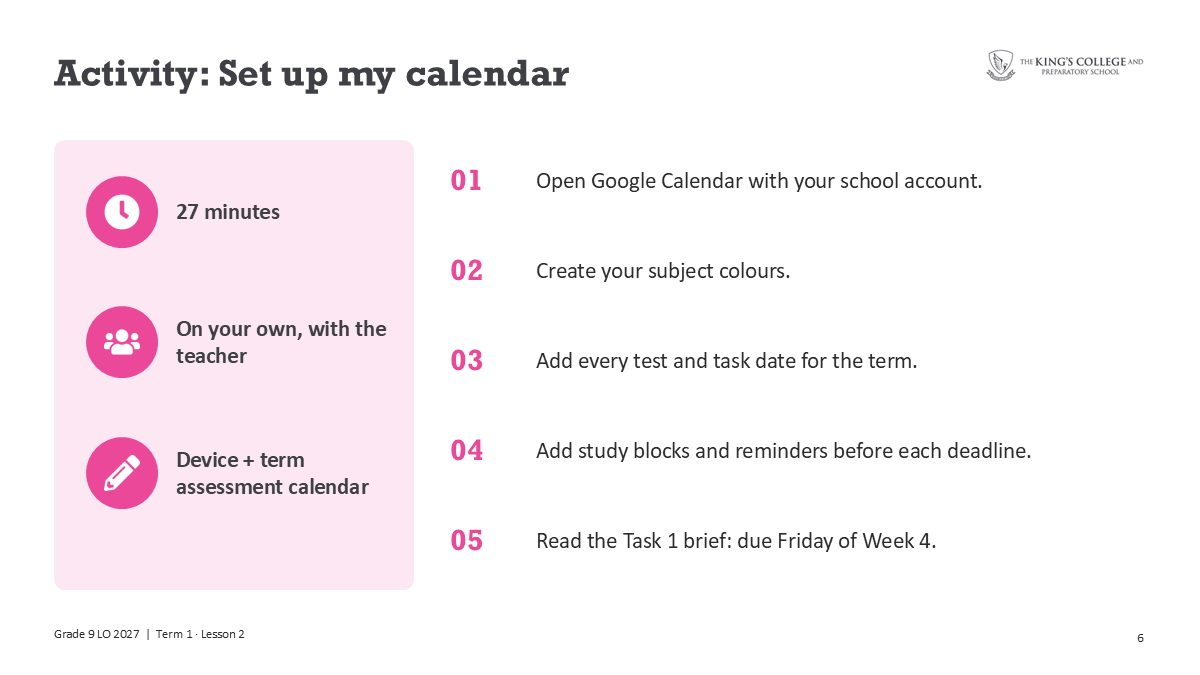
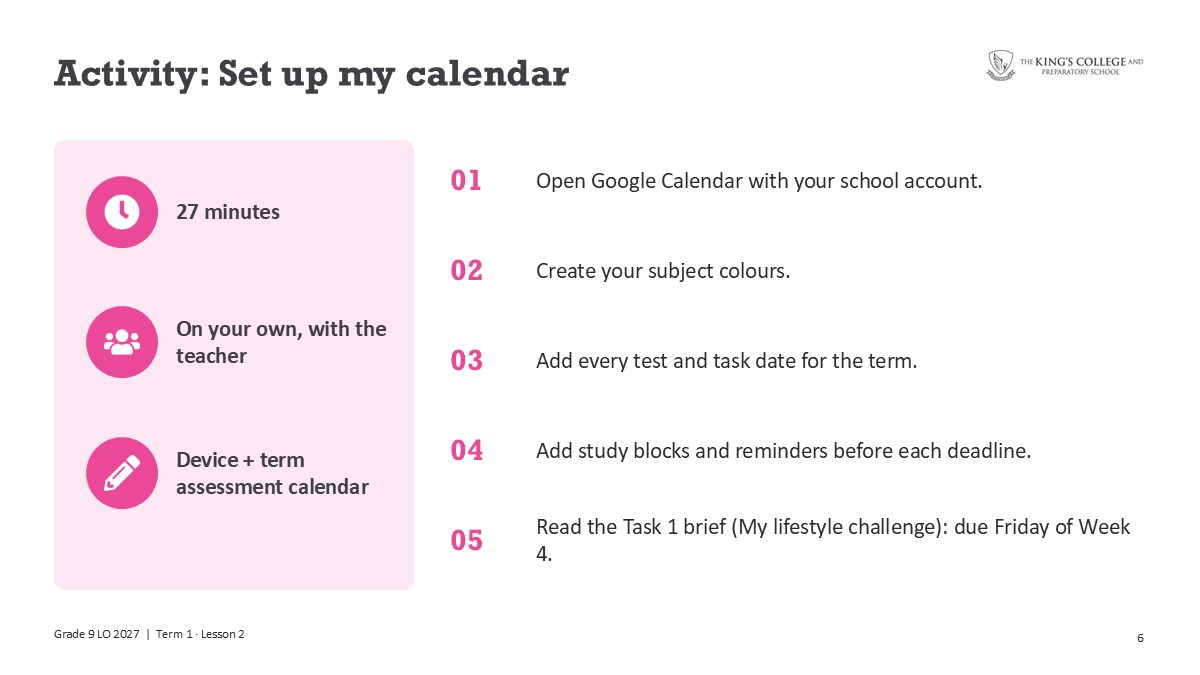
Grade 9 Task 1: My lifestyle challenge

Changed region(s): [[0.4317, 0.7467, 0.9558, 0.84]]

diff --git a/grade-9/lesson-9-02.html b/grade-9/lesson-9-02.html
@@ -58,7 +58,7 @@
 <div class="callout butter"><strong>Example</strong><p>Question: Analyse how taking accountability for deadlines can help a Grade 9 learner. (1 x 4) (4)<br>Answer: An accountable learner plans their own deadlines instead of blaming others ✓ which means they start tasks early and ask for help in time ✓ especially in busy weeks with tests and sport ✓ so they hand in better work, feel less stressed and earn their teachers&#x27; trust ✓.</p></div>
 <div class="callout peach"><strong>Exam tip</strong><p>Be able to explain the difference between responsibility and accountability, and between effective and efficient, and to recommend (with a reason and a result) ways to manage time better.</p></div>
 <div class="callout mint"><strong>Remember</strong><p>Own your time: plan it, check it, and take responsibility for it.</p></div>
-<h3>In class: Set up my calendar</h3><ol><li>Open Google Calendar with your school account.</li><li>Create your subject colours.</li><li>Add every test and task date for the term.</li><li>Add study blocks and reminders before each deadline.</li><li>Read the Task 1 brief: due Friday of Week 4.</li></ol></section><section id="test" class="card"><h2>Test yourself</h2><ol><li>What is the difference between effective and efficient?</li><li>Give one example of being accountable.</li><li>When is Task 1 due?</li></ol><details class="answers"><summary>Show answers</summary><p>1. Effective = the right result; efficient = no wasted time or energy. 2. e.g. admitting a missed deadline and fixing your plan. 3. Friday of Week 4.</p></details></section><section id="extension" class="card"><h2>Finished early?</h2><div class="callout mint"><strong>Sort my week</strong> <span class="meta">(about 10 minutes)</span><p>Use the urgent vs important groups to see where your time really goes.</p><ol><li>Draw four boxes in your LO book: Urgent and important; Important, not urgent; Urgent, not important; Not urgent, not important.</li><li>Write two of your real tasks or activities from this week in each box.</li><li>Circle the box where you spend the most time.</li><li>Write one change you will make this week to spend more time in &#x27;Important, not urgent&#x27;.</li></ol></div>
+<h3>In class: Set up my calendar</h3><ol><li>Open Google Calendar with your school account.</li><li>Create your subject colours.</li><li>Add every test and task date for the term.</li><li>Add study blocks and reminders before each deadline.</li><li>Read the Task 1 brief (My lifestyle challenge): due Friday of Week 4.</li></ol></section><section id="test" class="card"><h2>Test yourself</h2><ol><li>What is the difference between effective and efficient?</li><li>Give one example of being accountable.</li><li>When is Task 1 due?</li></ol><details class="answers"><summary>Show answers</summary><p>1. Effective = the right result; efficient = no wasted time or energy. 2. e.g. admitting a missed deadline and fixing your plan. 3. Friday of Week 4.</p></details></section><section id="extension" class="card"><h2>Finished early?</h2><div class="callout mint"><strong>Sort my week</strong> <span class="meta">(about 10 minutes)</span><p>Use the urgent vs important groups to see where your time really goes.</p><ol><li>Draw four boxes in your LO book: Urgent and important; Important, not urgent; Urgent, not important; Not urgent, not important.</li><li>Write two of your real tasks or activities from this week in each box.</li><li>Circle the box where you spend the most time.</li><li>Write one change you will make this week to spend more time in &#x27;Important, not urgent&#x27;.</li></ol></div>
 <div class="quiz" data-quiz="[{&quot;q&quot;: &quot;Studying a week before a test is an example of which kind of task?&quot;, &quot;options&quot;: [&quot;Urgent and important&quot;, &quot;Important, not urgent&quot;, &quot;Urgent, not important&quot;, &quot;Not urgent, not important&quot;], &quot;answer&quot;: 1, &quot;why&quot;: &quot;It matters for your goals but doesn&#x27;t have to happen right now: plan it. Successful learners spend most of their time here.&quot;}, {&quot;q&quot;: &quot;Which response shows ACCOUNTABILITY after a missed deadline?&quot;, &quot;options&quot;: [&quot;&#x27;I didn&#x27;t plan well; this is how I&#x27;ll fix it.&#x27;&quot;, &quot;&#x27;Nobody told us the date.&#x27;&quot;, &quot;&#x27;My partner didn&#x27;t do their part.&#x27;&quot;, &quot;&#x27;The deadline was unfair anyway.&#x27;&quot;], &quot;answer&quot;: 0, &quot;why&quot;: &quot;Accountability means owning your actions and their results without blaming others.&quot;}, {&quot;q&quot;: &quot;Thabo finishes his homework in ten minutes, but most of it is wrong. He was…&quot;, &quot;options&quot;: [&quot;effective, but not efficient&quot;, &quot;both effective and efficient&quot;, &quot;efficient, but not effective&quot;, &quot;effective, because he finished&quot;], &quot;answer&quot;: 2, &quot;why&quot;: &quot;Efficient means no wasted time; effective means the right result. He was fast but didn&#x27;t get the right result.&quot;}, {&quot;q&quot;: &quot;In Google Calendar, what does &#x27;plan backwards&#x27; mean?&quot;, &quot;options&quot;: [&quot;Start with your easiest subject first&quot;, &quot;Put the latest deadlines at the top of the list&quot;, &quot;Delete last week&#x27;s events every Sunday&quot;, &quot;Add study blocks on the days before each deadline&quot;], &quot;answer&quot;: 3, &quot;why&quot;: &quot;Planning backwards means working back from each deadline and adding study blocks before it.&quot;}, {&quot;q&quot;: &quot;Which tip helps most to beat procrastination?&quot;, &quot;options&quot;: [&quot;Wait until you feel motivated before you start&quot;, &quot;Keep your phone next to you for quick breaks&quot;, &quot;Break the task into a tiny first step and work for 25 minutes&quot;, &quot;Do the whole task in one long session late at night&quot;], &quot;answer&quot;: 2, &quot;why&quot;: &quot;Starting is the hardest part: a tiny first step, phone in another room, 25 minutes of work and a 5-minute break.&quot;}]"><h3>Quick quiz</h3><div class="qbody"></div><p class="score" aria-live="polite"></p><button type="button" class="retry" hidden>Try again</button></div></section></main></div>
 <footer class="foot">The King's College &amp; Preparatory School &middot; Raise up and release Godly leaders through education.</footer>
 <script src="assets/site.js"></script></body></html>
